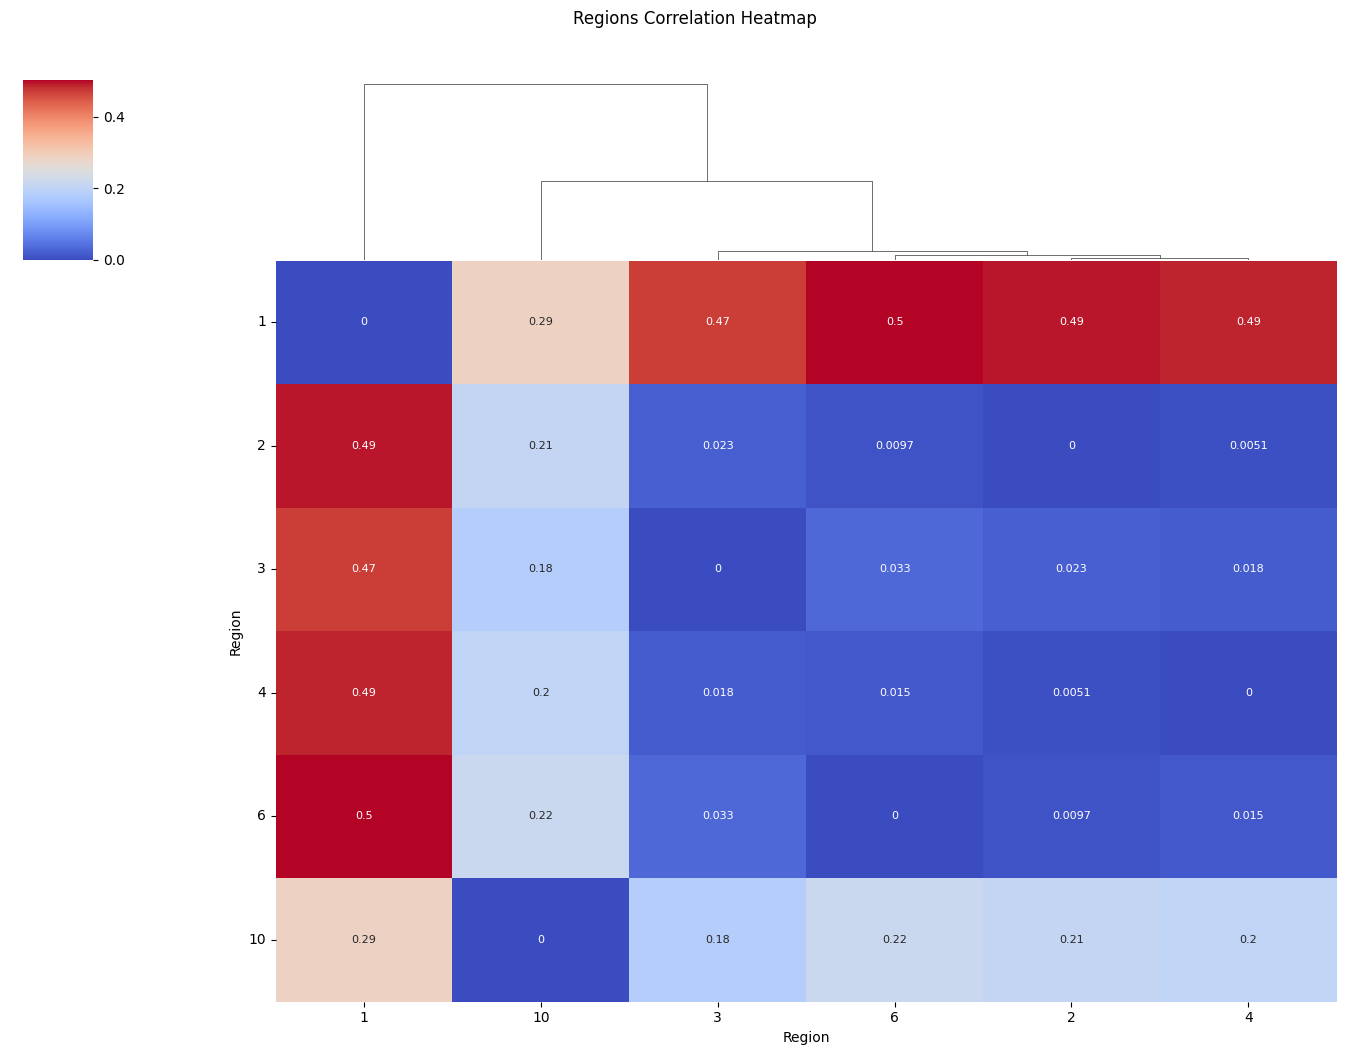
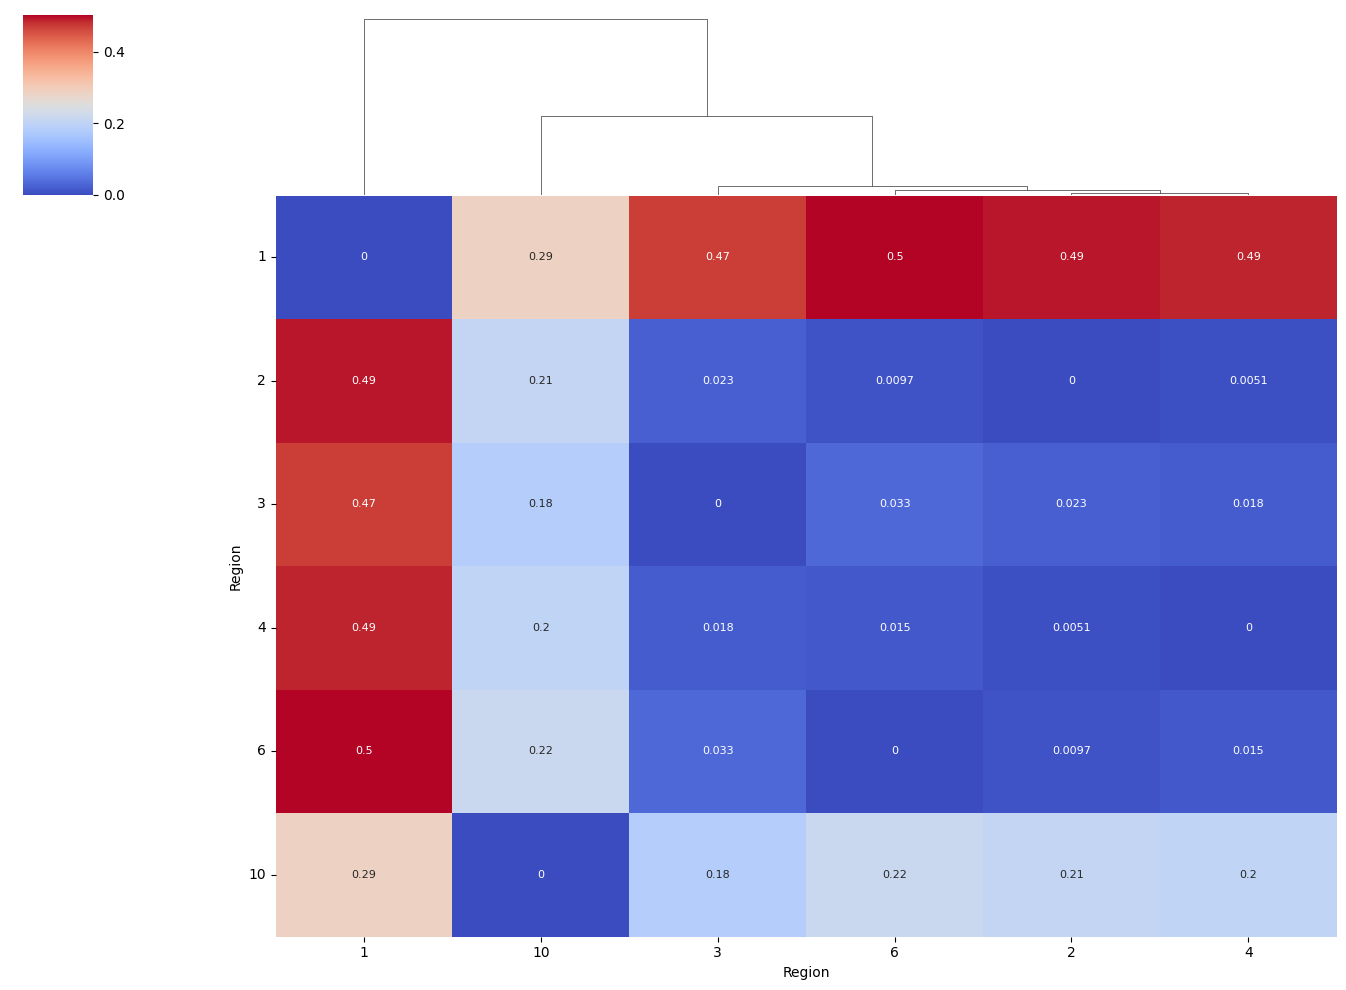
Updated correlation heatmap images and added heatmapper.py

diff --git a/src/heatmapper.py b/src/heatmapper.py
@@ -33,7 +33,7 @@ def plot_region_heatmap(file_path, result_dir):
     clustermap.ax_heatmap.set_yticklabels(clustermap.ax_heatmap.get_yticklabels(), rotation=0)
 
     # Add title to the plot
-    clustermap.fig.suptitle('Regions Correlation Heatmap', y=1.05)
+    # clustermap.fig.suptitle('Regions Correlation Heatmap', y=1.05)
 
     # Save the plot
     plot_path = os.path.join(result_dir, 'region_correlation_heatmap.png')
@@ -74,7 +74,7 @@ def plot_subregion_heatmap(file_path, result_dir):
     clustermap.ax_heatmap.set_yticklabels(clustermap.ax_heatmap.get_yticklabels(), rotation=0)
 
     # Add title to the plot
-    clustermap.fig.suptitle('Subregions Correlation Heatmap', y=1.01)
+    # clustermap.fig.suptitle('Subregions Correlation Heatmap', y=1.01)
 
     # Save the plot
     plot_path = os.path.join(result_dir, 'subregion_correlation_heatmap.png')
@@ -117,7 +117,7 @@ def plot_subsubregion_heatmap(file_path, result_dir):
     clustermap.ax_heatmap.set_yticklabels(clustermap.ax_heatmap.get_yticklabels(), rotation=0)
 
     # Add title to the plot
-    clustermap.fig.suptitle('Sub-subregions Correlation Heatmap', y=1.01)
+    # clustermap.fig.suptitle('Sub-subregions Correlation Heatmap', y=1.01)
 
     # Save the plot
     plot_path = os.path.join(result_dir, 'subsubregion_correlation_heatmap.png')
